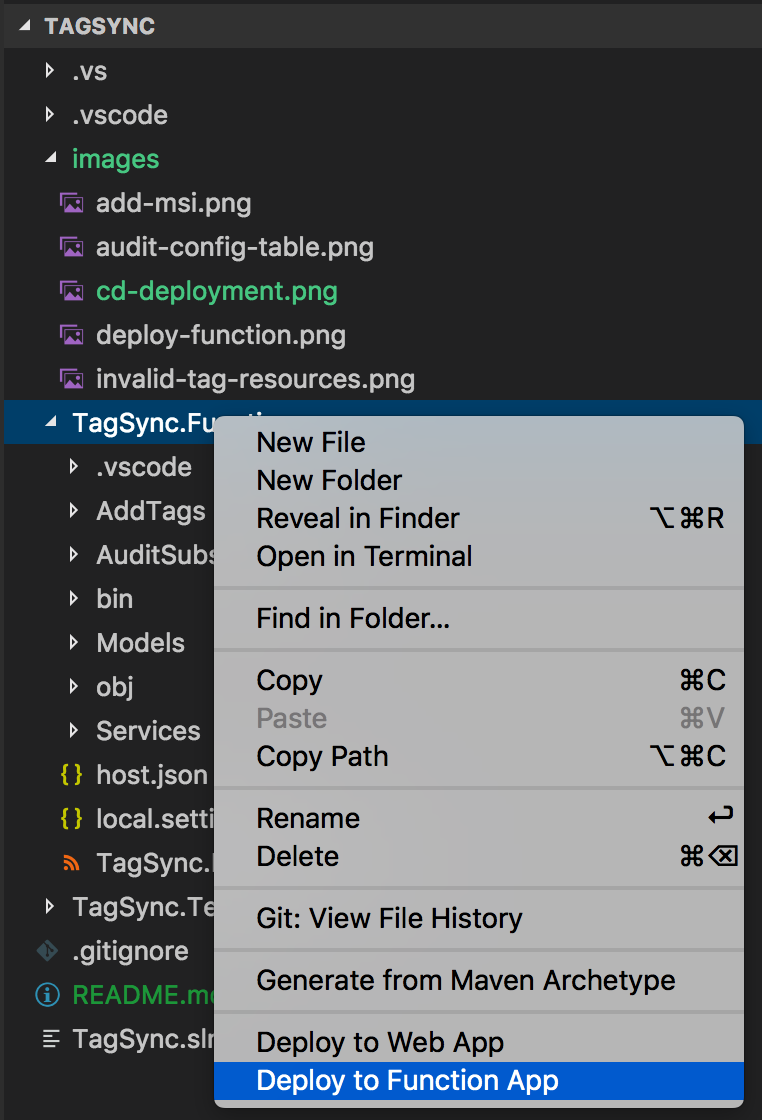
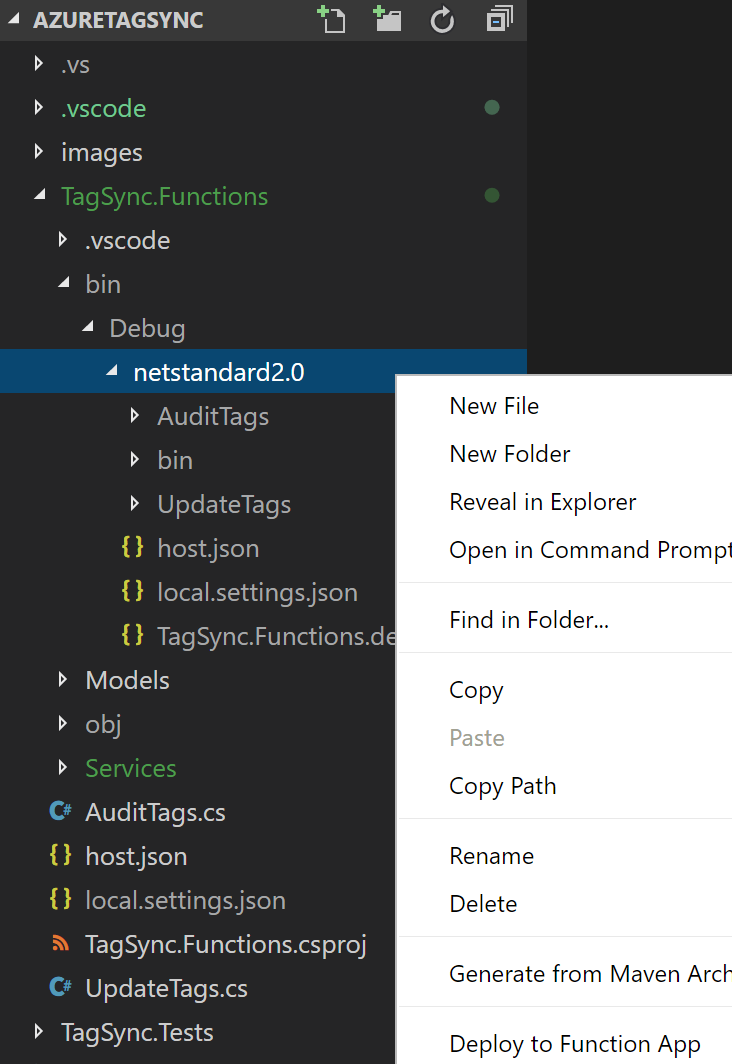
documentation updates

diff --git a/README.md b/README.md
@@ -1,16 +1,32 @@
 # Automated Tag Synchronization for Azure Resources
 
-This is a proof-of-concept application that synchronizes mandatory tags set on Resource Groups to the resources they contain. Synchronization happens automatically based on a user-defined schedule. The application is broken down into two Functions:
+TagSync is an application that synchronizes mandatory tags set on Resource Groups to the resources they contain. The application is broken down into two Azure Functions:
 
-- **AuditSubscriptions:** Executes on a user-defined schedule and reads in subscription configuration data from an Azure Storage table. This configuration includes a list of tags that a given resource group in that subscription must implement. The function iterates through each resource group, inspects the tag values, and determines if changes are required (new or modify) on resources. If so, a message is added to a queue with the details required to add / modify the tag(s) for that resource.
-- **AddTags:** Processes each message added to the queue by the AuditSubscriptions function and modifies the tags as necessary. If there are any issues with the tagging, an error is logged in the *InvalidTagResources* table. Any resource type listed in this table are exempted from future runs by *AuditSubscriptionTags*.
+- **AuditTags:** Executes on a user-defined schedule and reads in subscription configuration data from the ```AuditConfig``` table. This configuration includes a list of tags that a given resource group in that subscription must implement. The function iterates through each resource group and resource, inspects the tag values, and determines if changes are required (new or modify). If so, a message is added to a queue with the details required to add / modify the tag(s) for that resource. For query efficiency, this function also documents details for each resource type in the ```ResourceTypes``` table. Any resource type listed in this table that has a documented error is skipped.
+
+- **UpdateTags:** Processes each message added to the queue and modifies the tags as necessary. If there are any issues with the tagging, an error is logged in the *ResourceTypes* table.
 
 ## Deployment
 
 ### Prerequisites
 
-The application is written in C# (.Net Core) and can be developed and tested using a PC, Mac, or Linux using the Functions 2.0 runtime. As such, it is highly recommended the user complete all setup and installation instructions documented here: [Code and test Azure Functions locally](https://docs.microsoft.com/en-us/azure/azure-functions/functions-run-local).
-It is assumed you are working with an updated version of [Visual Studio Code](https://code.visualstudio.com/) with the [Azure Functions extension](https://marketplace.visualstudio.com/items?itemName=ms-azuretools.vscode-azurefunctions) installed.
+#### Git Tools
+
+Be sure you have git tools installed on your PC or Mac. You can confirm this by running ```git --version``` from a command prompt.
+
+#### .Net Core 2.1
+
+Confirm the .Net Core version installed on your PC or Mac by entering: ```dotnet --version```. It is assumed you have **2.1.300** or higher installed.
+
+#### Azure Functions Core Tools
+
+It is highly recommended the user complete all setup and installation instructions documented here: [Code and test Azure Functions locally](https://docs.microsoft.com/en-us/azure/azure-functions/functions-run-local).
+
+#### Development Tools
+
+It is assumed you are working with an updated version of [Visual Studio Code](https://code.visualstudio.com/) with the [Azure Functions extension](https://marketplace.visualstudio.com/items?itemName=ms-azuretools.vscode-azurefunctions) installed. Visual Studio 2017 also works.
+
+#### Azure Storage Explorer
 
 You must also have a recent version of [Azure Storage Explorer](https://azure.microsoft.com/en-us/features/storage-explorer/) installed.
 
@@ -23,8 +39,6 @@ Once the Function App is created, a few follow-up configurations are necessary:
 #### Upgrade function runtime
 
 In the Azure Portal, navigate to the Function App and select *Function App Settings*. Switch the runtime version to **beta**.
-
-NOTE: At the time of this writing, there are issues with the latest beta runtime. For this applicaiton to work, you will need to navigate to Application Settings and set the value of FUNCTIONS_EXTENSION_VERSION to ```2.0.11651-alpha```.
 
 #### Enable Managed Service Identity (MSI)
 
@@ -40,20 +54,30 @@ Select the fucntion app and click **Save**. Repeat this process for any addition
 
 Currently, two tables must be manually created within the storage account associated to the Function App before the solution can run. The easiest way to locate the table is by examining the resource group the function was deployed into.
 
-Use Azure Storage Explorer to create tables with the following names: *AuditConfig* and *InvalidTagResources*
-
-#### Create the queue
-
-In the same storage account, use Storage Explorer to create a new queue with the following name: *resources-to-tag*
+Use Azure Storage Explorer to create tables with the following names:
+* ```AuditConfig```
+* ```ResourceTypes```
 
 ### Deploy the Functions
-Finally, clone the repository to your workstation and open the root folder in VS Code. Assuming you have the Azure Functions extension installed in VS Code, you can deploy directly to your Function App by navigating to the **TagSync.Functions** folder and right-clicking. In the dialogue menu, select *Deploy to Function App*. You will be prompted to select a valid function app in your subscription. Use the one you created earlier.
+The quickest way to deploy the functions to your Azure environment is to build the binary from the source code and push a deployment package to the Function App you created earlier. 
 
-<img src="images/deploy-function.png" width=30%>
+> NOTE: A more scalable approach for deploying and maintaining this application in Azure is to use the CI/CD pipeline functionality available in Azure App Service. App Service supports a variety of source control systems such as GitHub and Visual Studio Team Services.
+
+To deploy using Visual Studio Code, follow these steps:
+
+1. Clone the repository to your workstation and open the root folder in VS Code.
+
+2. Right-click TagSync.Functions and select **Open in Terminal** (Mac) or **Open in Command Prompt** (PC)
+
+3. In the terminal window, enter: ```dotnet build```. This will download NuGet dependency packages and generate the C# binary
+
+4. Assuming you have the Azure Functions extension installed in VS Code, you can deploy directly to your Function App by navigating to the following directory: **TagSync.Functions** > **bin** > **debug** > **netstandard 2.0** and right-clicking. In the dialogue menu, select *Deploy to Function App*. You will be prompted to select a valid function app in your subscription. Use the one you created earlier.
+
+    <img src="images/deploy-function.png" width=30%>
 
 ## Configuration and Operation
 
-By default, the ```AuditSubscriptionTags``` function runs once every 4 hours. The ```AddTags``` function is triggered by messages placed into the ```resources-to-tag``` queue created earler. You can manually initialize the process by clicking the Run button on ```AuditSubscriptionTags``` the portal. It is recommended to do this once after the deployment has been completed so that the columns for the ```AuditConfigTable``` are created.
+By default, the ```AuditTags``` function runs once every 4 hours. The ```UpdateTags``` function is triggered by messages placed into a queue named ```resources-to-tag```. You can manually initialize the process by clicking the Run button on ```AuditTags``` the portal. It is recommended to do this once after the deployment has been completed so that the default columns for the ```AuditConfigTable``` are created.
 
 When in operation, the solution works by interacting with the tables hosted in the Storage Account.
 
@@ -73,13 +97,15 @@ Once configuraiton is completed, your table shoud look like the following:
 
 Information about every subscription audit performed by ```AuditSubscriptionTags``` is recorded in this table.
 
-### InvalidTagResources
+### ResourceItems
 
-Azure does not currently have a unified API for resource tagging. There are cases where exeptions will be thrown when attempting to tag certain resource types. These exceptions are handled by the ```AddTags``` function and written to this table.
+When invoked, ```AuditTags``` reads all items from this table. For query efficiency, details necessary for updating resources, such as a valid API location and version, are stored in this table.
 
- <img src="images/invalid-tag-resources.png" width=75%>
+  <img src="images/invalid-tag-resources.png" width=85%>
 
- When invoked, ```AuditSubscriptionTags``` reads all items from this table and skips any resource that matches a given Type. That way, repeated API calls that are known to fail are not made. Developers can use the information to update the code to better handle these specific resources. Administrators can use this table to tag these resources either via a script or manually.
+Azure does not currently have a unified API for resource tagging. There are cases where exeptions will be thrown when attempting to tag certain resource types. These exceptions are handled by the ```UpdateTags``` function and written to this table.
+ 
+ When ```AuditTags``` is processing a subscription, any resource type with data in the ```ErrorMessage``` field is skipped. That way, repeated API calls that are known to fail are not made. Developers can use the information to update the code to better handle these specific resources.
 
 ## Local Development / Debugging
 
@@ -99,19 +125,34 @@ PowerShell
 New-AzureRmADServicePrincipal -DisplayName ServicePrincipalName
 ```
 
-When the Service Principal is created, document the ID, key, and the AAD tenant ID for use in the next step. Finally ensure the Service Principal has permissions to modify objects in your subscription(s).
+When completed, add the following entries into the Application Settings of the Function App: ```appId```, ```appSecret```, and ```tenantId```. Populate each entry with the values provided in the the console output.
+
+Finally ensure the Service Principal has permissions to modify objects in your subscription(s).
 
 ### local.settings.json
- In Azure, connection information that enables the Functions runtime to bind to services like Azure Storage (blobs, tables, and queues) is hosted in Application Settings. When the Functions runtime is running locally, this information is provided by a file named **local.settings.json**. This file contains sensitive information and is excluded from the repositroy, so you must download it from the Azure Portal 
 
- To do this, navigate to the Function App in the Azure Portal and click the **Download app content** link at the top of the **Overview** page. At the prompt, be sure to select ***Include app settings in the download***.  Oncde the download completes, unzip the contents and copy **local.settings.json** to the root of the **TagSync.Functions** folder.
+In Azure, connection information that enables the Functions runtime to bind to services like Azure Storage (blobs, tables, and queues) is hosted in Application Settings. When the Functions runtime is running locally, this information is provided by a file named ```local.settings.json```.
 
- Finally, add ```appId```, ```appSecret```, and ```tenantId``` items to the JSON file and set the values to match the Service Principal you created earlier. The end result should look something like this:
+This file sensitive information and is excluded from the git repository via the ```.gitignore``` file, so you must download it from the Azure Portal. To do that, execute the following command from the root folder:
+
+```func azure functionapp fetch-app-settings <YourAppName>```
+
+ Once completed, the file should appear with all the settings configured in Application Settings,including the Service Principal information. By default, all values will be encrypted using your computer's machine key. The end result should look something like this:
 
 <img src="images/local-settings-json.png" width=60%>
 
-Assuming you have the [Functions 2.0 runtime installed and configured from your workstation](https://docs.microsoft.com/en-us/azure/azure-functions/functions-run-local#v2), you should now be able to successfuly run and debug this application locally.
+> NOTE: If you configured MSI for the Function App, you may now delete ```appId```, ```appSecret```, and ```tenantId``` from Application Settings in the Azure Portal. The Service Principal is only intended to be used for local debugging and testing.
 
- ## FAQ
+Assuming you have the [Functions 2.0 runtime installed and configured from your workstation](https://docs.microsoft.com/en-us/azure/azure-functions/functions-run-local#v2), you should now be able to run and debug this application locally.
 
- TBD
+## FAQ
+
+### How do I debug a timer trigger function locally?
+
+If you're using Visual Studio Code, navigate to the Debug section and click the green arrow to start the functions runtime and attach the debugger. Next, invoke the timer job by sending an HTTP POST to the following URL:
+
+```html
+http://localhost:7071/admin/functions/AuditResourceGroups
+```
+
+This will invoke the function and allow you to use the debugger.
